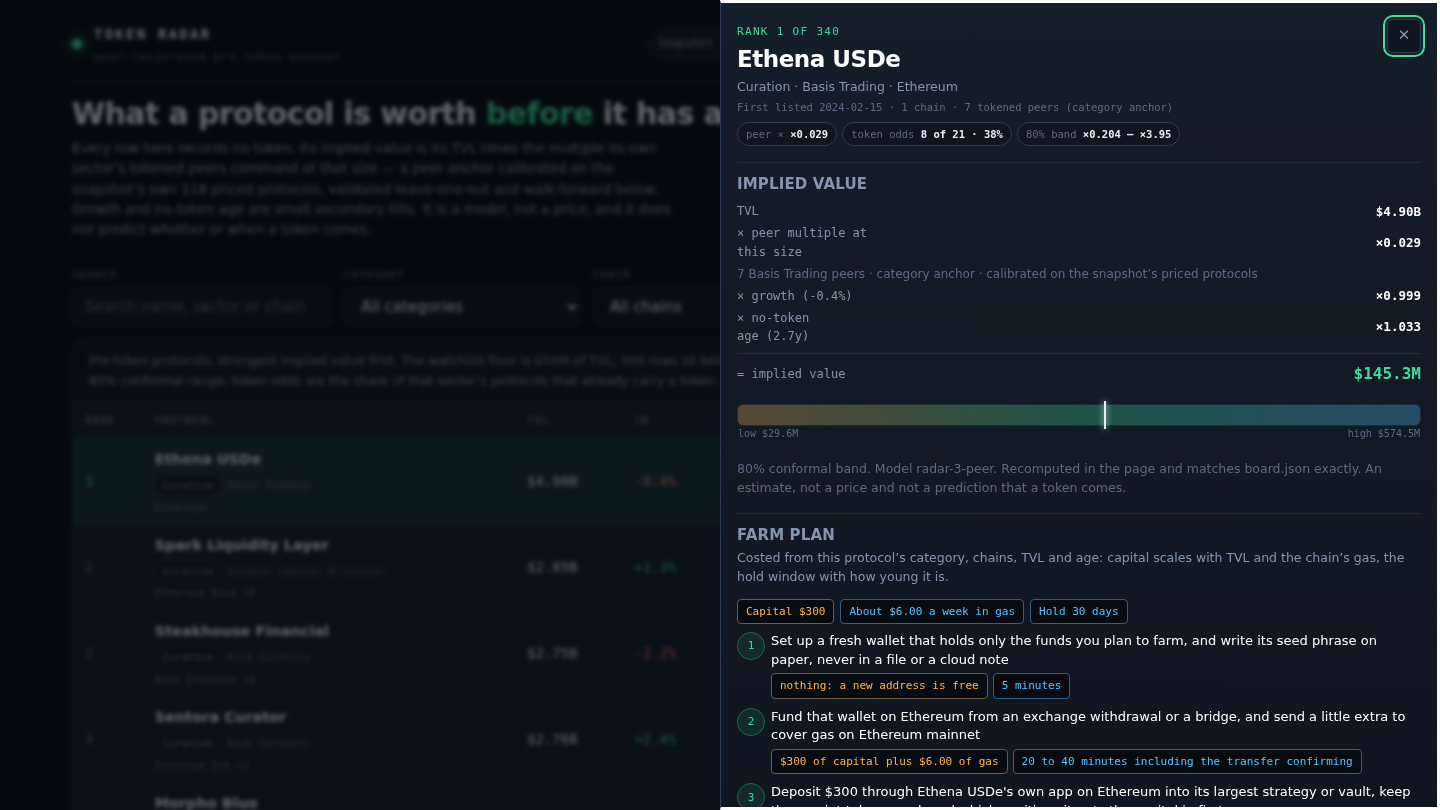
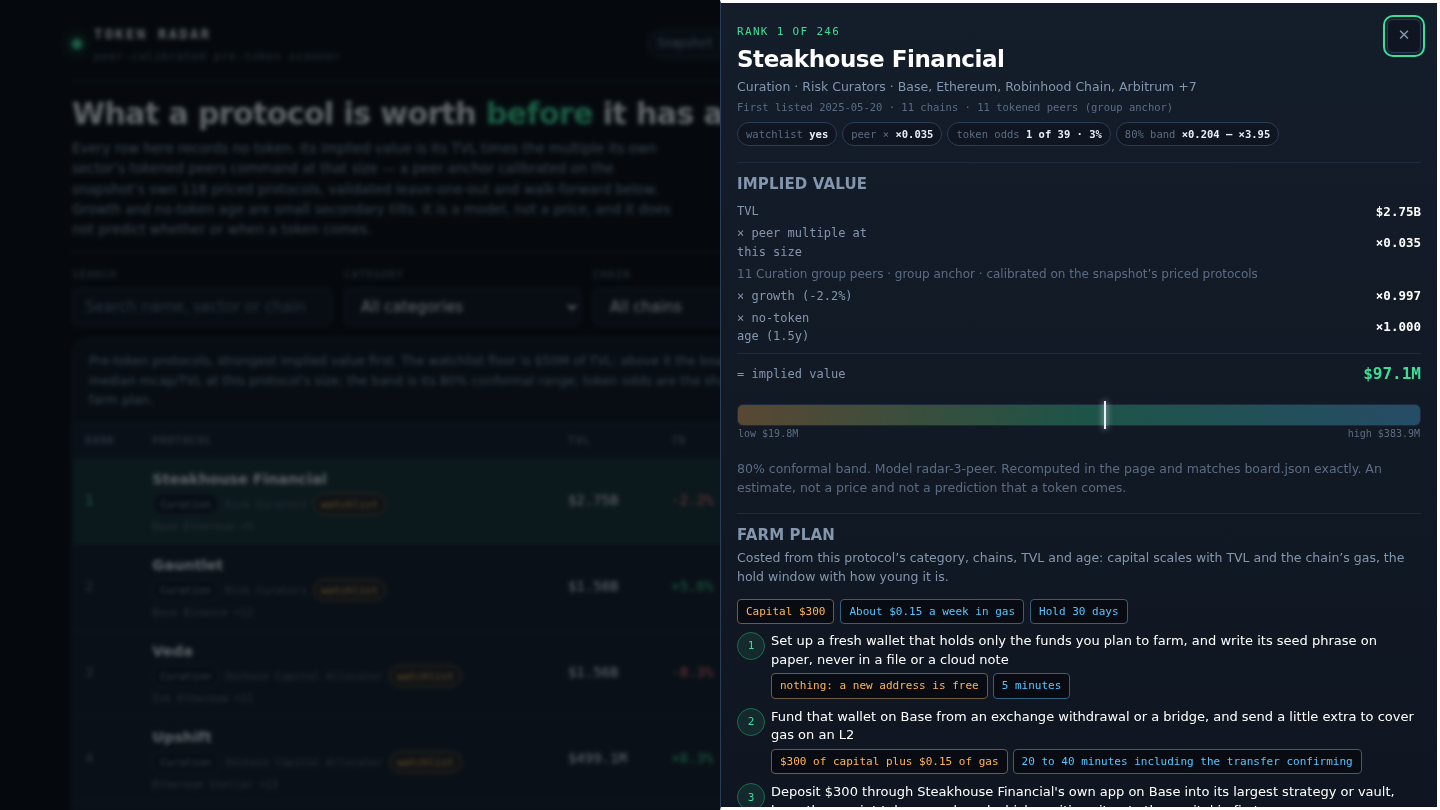
keep above-floor products of trading tokens out of the pre-token ranking
The snapshot has no parent field, so above the watchlist floor the house
watchlist is the evidence: a protocol it leaves out there (Morpho Blue, Ethena
USDe, SparkLend, Curve, PancakeSwap...) has a parent whose token already trades.
Those 94 protocols now move to the kept-out view with that reason instead of
topping the pre-token board. The board is 246 rows (40 watchlist + 206 early
finds); all 758 protocols remain covered across the three views. Watchlist rows
carry a gold chip, the detail names the anchor's actual peer pool, and the
three views are re-rendered at 332,342 / 319,741 / 331,204 bytes.

diff --git a/lib/model.ts b/lib/model.ts
@@ -75,7 +75,7 @@ export interface SectorStat {
 
 export interface RadarData {
   as_of: string; source: string; floor_usd: number; model: ModelConstants; model_version: string;
-  universe_size: number; watchlist_size: number; board_size: number; early_size: number;
+  universe_size: number; watchlist_size: number; watchlist: string[]; board_size: number; early_size: number;
   live_size: number; excluded_size: number; board_tvl_usd: number;
   backtest: Backtest; sectors: SectorStat[]; rows: RadarRow[]; live: LiveRow[]; excluded: ExcludedRow[];
 }
@@ -103,17 +103,27 @@ const PRODUCT_CATEGORIES = new Set(['CEX', 'Bridge', 'Canonical Bridge', 'Liquid
 
 export const isLive = (p: SnapshotProtocol): boolean => p.mcap_usd !== null;
 
-/** A protocol the board may rank: no token recorded, not a wrapped/staked/bridged product of one that trades. */
-export const isRankable = (p: SnapshotProtocol): boolean =>
-  p.mcap_usd === null && !PRODUCT_CATEGORIES.has(p.category ?? '') &&
-  !VERSIONED.test(p.name) && !WRAPPED.test(p.name) && !EXCHANGE_PREFIX.test(p.name);
+/** A protocol the board may rank: no token recorded, not a wrapped/staked/bridged product of one that trades.
+ *  Above the watchlist floor the house watchlist is the evidence: a protocol it leaves out there has a parent
+ *  whose token already trades (the snapshot carries no parent field), so it is kept out too. */
+export function isRankable(p: SnapshotProtocol, floorUsd: number, watchlist: Set<string>): boolean {
+  return (
+    p.mcap_usd === null &&
+    !PRODUCT_CATEGORIES.has(p.category ?? '') &&
+    !VERSIONED.test(p.name) &&
+    !WRAPPED.test(p.name) &&
+    !EXCHANGE_PREFIX.test(p.name) &&
+    !(p.tvl_usd >= floorUsd && !watchlist.has(p.slug))
+  );
+}
 
-export function exclusionReason(p: SnapshotProtocol): string | null {
+export function exclusionReason(p: SnapshotProtocol, floorUsd: number, watchlist: Set<string>): string | null {
   if (p.mcap_usd !== null) return null;
   if (PRODUCT_CATEGORIES.has(p.category ?? '')) return `${p.category} product: its underlying token already trades`;
   if (VERSIONED.test(p.name)) return 'a versioned pool of another protocol';
   if (WRAPPED.test(p.name)) return 'a wrapped or staked product of a token that trades';
   if (EXCHANGE_PREFIX.test(p.name)) return 'an exchange-branded product';
+  if (p.tvl_usd >= floorUsd && !watchlist.has(p.slug)) return 'above the floor but off the watchlist: a product of a protocol whose token trades';
   return null;
 }
 
@@ -303,9 +313,10 @@ export function calibrate(protocols: SnapshotProtocol[], asOf: string, model: Mo
 /** The universe split three ways: ranked pre-token, live token, excluded product. */
 export function universe(snapshot: Snapshot): { board: SnapshotProtocol[]; live: SnapshotProtocol[]; excluded: SnapshotProtocol[] } {
   const bySlug = new Map(snapshot.protocols.map((p) => [p.slug, p]));
+  const watch = new Set(snapshot.watchlist);
   const chosen = new Map<string, SnapshotProtocol>();
   for (const slug of snapshot.watchlist) { const p = bySlug.get(slug); if (p !== undefined) chosen.set(slug, p); }
-  for (const p of snapshot.protocols) if (isRankable(p)) chosen.set(p.slug, p);
+  for (const p of snapshot.protocols) if (isRankable(p, snapshot.floor_usd, watch)) chosen.set(p.slug, p);
   const board = [...chosen.values()].sort((a, b) => (a.slug < b.slug ? -1 : a.slug > b.slug ? 1 : 0));
   const boardSlugs = new Set(board.map((p) => p.slug));
   return {
@@ -356,9 +367,10 @@ export function liveRows(snapshot: Snapshot): LiveRow[] {
 
 /** The kept-out products, with the reason the house rule keeps them out of the ranking. */
 export function excludedRows(snapshot: Snapshot): ExcludedRow[] {
+  const watch = new Set(snapshot.watchlist);
   return universe(snapshot).excluded.map((p) => ({
     slug: p.slug, name: p.name, category: p.category, chains: p.chains, tvl_usd: p.tvl_usd,
-    reason: exclusionReason(p) ?? 'kept out of the ranking',
+    reason: exclusionReason(p, snapshot.floor_usd, watch) ?? 'kept out of the ranking',
   })).sort((a, b) => b.tvl_usd - a.tvl_usd);
 }
 
@@ -394,7 +406,8 @@ export function buildRadar(snapshot: Snapshot, model: ModelConstants = MODEL): {
   const radar: RadarData = {
     as_of: snapshot.as_of, source: snapshot.source, floor_usd: snapshot.floor_usd,
     model, model_version: MODEL_VERSION, universe_size: snapshot.protocols.length,
-    watchlist_size: snapshot.watchlist.length, board_size: board.length,
+    watchlist_size: snapshot.watchlist.length,
+    watchlist: snapshot.watchlist, board_size: board.length,
     early_size: board.filter((r) => !snapshot.watchlist.includes(r.slug)).length,
     live_size: live.length, excluded_size: excluded.length,
     board_tvl_usd: board.reduce((sum, r) => sum + r.tvl_usd, 0),

diff --git a/dashboard/app.js b/dashboard/app.js
@@ -7,6 +7,7 @@
   var DATA = window.RADAR;
   if (!DATA) return;
   var M = DATA.model, B = DATA.backtest;
+  var WATCH = new Set(DATA.watchlist || []);
   var app = document.getElementById('board');
   var TVL_FLOORS = [0, 5e7, 1e8, 2.5e8, 1e9];
   var SORT_DEFAULT_DIR = { implied: -1, rank: -1, tvl: -1, growth: -1, age: -1, name: 1, mcap: -1, peer: -1 };
@@ -229,7 +230,7 @@
         el('td', { class: 'num rank', text: String(r.rank) }),
         el('td', null, el('div', { class: 'proto' },
           el('b', { text: r.name }),
-          el('div', { class: 'meta' }, el('span', { class: 'sector', text: r.sector }), el('span', { class: 'chain', text: r.category || 'Uncategorised' })),
+          el('div', { class: 'meta' }, el('span', { class: 'sector', text: r.sector }), el('span', { class: 'chain', text: r.category || 'Uncategorised' }), WATCH.has(r.slug) ? el('span', { class: 'watch', text: 'watchlist' }) : null),
           chainChips(r.chains)
         )),
         el('td', { class: 'num', text: fmtUsd(r.tvl_usd) }),
@@ -247,7 +248,7 @@
     var filtering = state.q.trim() !== '' || state.category !== 'all' || state.chain !== 'all' || state.minTvl !== 0;
     var scope = filtering
       ? 'Showing ' + list.length + ' of ' + DATA.board_size + ' rows, ' + fmtUsd(list.reduce(function (s, r) { return s + r.tvl_usd; }, 0)) + ' of TVL, that match the filters.'
-      : 'The watchlist floor is $' + Math.round(DATA.floor_usd / 1e6) + 'M of TVL; ' + DATA.early_size + ' rows sit below it as early finds.';
+      : 'The watchlist floor is $' + Math.round(DATA.floor_usd / 1e6) + 'M of TVL: above it the board ranks the house watchlist\u2019s own picks, and ' + DATA.early_size + ' early finds sit below it.';
     return el('div', { class: 'panel' },
       el('div', { class: 'caption', text: 'Pre-token protocols, strongest implied value first. ' + scope + ' Peer \u00d7 is the sector\u2019s median mcap/TVL at this protocol\u2019s size; the band is its 80% conformal range; token odds are the share of that sector\u2019s protocols that already carry a token. Select a row for its peer anchor and farm plan.' }),
       el('div', { class: 'table-wrap' }, el('table', null,
@@ -388,7 +389,7 @@
     state.selected = slug;
     writeHash();
     dialog.textContent = '';
-    var chains = row.chains && row.chains.length ? row.chains.join(', ') : 'an unnamed chain';
+    var chains = row.chains && row.chains.length ? row.chains.slice(0, 4).join(', ') + (row.chains.length > 4 ? ' +' + (row.chains.length - 4) : '') : 'an unnamed chain';
     dialog.appendChild(el('div', { class: 'detail-head' },
       el('div', null,
         el('span', { class: 'eyebrow', text: 'Rank ' + row.rank + ' of ' + DATA.board_size }),
@@ -396,6 +397,7 @@
         el('p', { class: 'sub', text: row.sector + ' \u00b7 ' + (row.category || 'Uncategorised') + ' \u00b7 ' + chains }),
         el('p', { class: 'detail-meta', text: 'First listed ' + (row.listed_at || 'unknown') + ' \u00b7 ' + (row.chains || []).length + ' chain' + ((row.chains || []).length === 1 ? '' : 's') + ' \u00b7 ' + row.peer_n + ' tokened peers (' + row.anchor_level + ' anchor)' }),
         el('div', { class: 'chips' },
+          WATCH.has(row.slug) ? chip('watchlist', 'yes') : null,
           chip('peer \u00d7', fmtMult(row.peer_multiple)),
           chip('token odds', row.token_count + ' of ' + row.token_total + ' \u00b7 ' + fmtRate(row.token_rate)),
           chip('80% band', fmtMult(row.band_low_usd / row.implied_value_usd) + ' \u2013 ' + fmtMult(row.band_high_usd / row.implied_value_usd))
@@ -413,7 +415,7 @@
     var bridge = el('div', { class: 'bridge' },
       bridgeRow('TVL', fmtUsd(row.tvl_usd)),
       bridgeRow('\u00d7 peer multiple at this size', fmtMult(row.peer_multiple)),
-      el('div', { class: 'why', text: row.peer_n + ' ' + (row.category || 'uncategorised') + ' peers \u00b7 ' + row.anchor_level + ' anchor \u00b7 calibrated on the snapshot\u2019s priced protocols' }),
+      el('div', { class: 'why', text: row.peer_n + ' ' + (row.anchor_level === 'category' ? (row.category || 'category') : row.anchor_level === 'group' ? row.sector + ' group' : 'all') + ' peers \u00b7 ' + row.anchor_level + ' anchor \u00b7 calibrated on the snapshot\u2019s priced protocols' }),
       bridgeRow('\u00d7 growth (' + fmtPct(row.change_7d) + ')', '\u00d7' + row.growth_mult.toFixed(3)),
       bridgeRow('\u00d7 no-token age (' + fmtAge(row.age_days) + ')', '\u00d7' + row.age_mult.toFixed(3)),
       bridgeRow('= implied value', fmtUsd(row.implied_value_usd), 'total'),

diff --git a/dashboard/app.css b/dashboard/app.css
@@ -121,6 +121,7 @@ tr[data-selected="true"] .rank, tbody tr:hover .rank { color: var(--accent); }
 .proto b { font-weight: 600; font-size: 14.5px; }
 .meta { display: flex; align-items: center; gap: 6px; flex-wrap: wrap; }
 .sector { font-family: var(--mono); font-size: 10.5px; padding: 2px 7px; border-radius: 999px; border: 1px solid var(--line-strong); color: var(--muted); background: var(--panel); }
+.watch { font-family: var(--mono); font-size: 10.5px; padding: 2px 7px; border-radius: 999px; border: 1px solid color-mix(in srgb, var(--amber) 45%, var(--line)); color: var(--amber); background: color-mix(in srgb, var(--amber) 8%, var(--panel)); }
 .chain { font-family: var(--mono); font-size: 10.5px; color: var(--dim); }
 .pos { color: var(--accent); }
 .neg { color: var(--neg); }

diff --git a/README.md b/README.md
@@ -45,13 +45,13 @@ interval is the honest resolution, not a price target.
 
 ## What's in the dashboard
 
-- A ranked board of **340** pre-token protocols, sortable by rank, name, TVL, 7-day growth, no-token
+- A ranked board of **246** pre-token protocols, sortable by rank, name, TVL, 7-day growth, no-token
   age, peer multiple and implied value, with each row's 80% band and its sector's token rate.
 - The **live-token** view: all 144 protocols whose token already trades, at the market's own value —
   the calibration set, kept out of the ranking so the two are never mixed.
-- The **kept-out** view: the 274 pre-token protocols the house rule excludes as wrapped, staked or
-  bridged products, exchange-branded names, or versioned pools. All 758 snapshot protocols are
-  accounted for across the three views.
+- The **kept-out** view: the 368 pre-token protocols the house rule excludes as wrapped, staked or
+  bridged products, exchange-branded names, versioned pools, or above-floor products of a protocol
+  whose token already trades. All 758 snapshot protocols are accounted for across the three views.
 - A detail drawer per protocol: the peer anchor, the value bridge, the conformal band, the sector's
   token record, and a six-step farm plan with a capital cost, a per-chain gas estimate and a time for
   every step.
